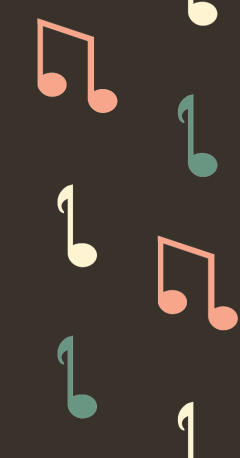
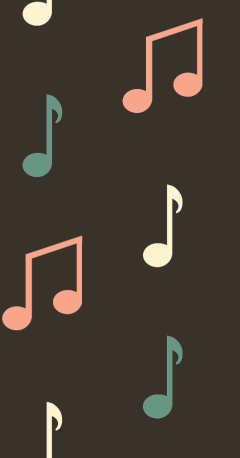
Abstract wallpaper fetching into a class

diff --git a/src/hall.ts b/src/hall.ts
@@ -1,6 +1,7 @@
 import * as THREE from 'three';
 import { SpotifyTrack } from './spotify';
 import TextGenerator from './text';
+import WallpaperManager from './wallpaper';
 
 const HALL_WIDTH = 5;
 const HALL_LENGTH = 16;
@@ -8,36 +9,28 @@ const HALL_HEIGHT = 4;
 const CENTER_APOTHEM = HALL_WIDTH / (2 * Math.sqrt(3));
 const HALL_WALL_LENGTH = HALL_LENGTH - CENTER_APOTHEM;
 const ALBUM_COVER_SIZE = 1.8;
-const WALLPAPER = {
-  // url: './images/wall1.png',
-  // width: 300,
-  // height: 325,
-  url: './images/wall2.png',
-  width: 240,
-  height: 458,
-  scale: 2,
-  // url: './images/wall3.png',
-  // width: 400,
-  // height: 400,
-  // scale: 1,
-};
 
 export default class Hall {
-  hallGroup: THREE.Group;
+  root: THREE.Group;
   leftWall: THREE.Mesh;
   rightWall: THREE.Mesh;
+  endWall: THREE.Mesh;
+  endGroup: THREE.Group;
   trackGroups: THREE.Group[];
   albumCoverMaterials: THREE.MeshPhongMaterial[];
   textGenerator: TextGenerator;
+  wallpaperMgr: WallpaperManager;
 
   constructor(
     parent: THREE.Object3D,
     rotation: number,
+    title: string,
     textGenerator: TextGenerator,
+    wallpaperMgr: WallpaperManager,
   ) {
-    this.hallGroup = new THREE.Group();
-    this.hallGroup.rotateY(rotation);
-    parent.add(this.hallGroup);
+    this.root = new THREE.Group();
+    this.root.rotateY(rotation);
+    parent.add(this.root);
 
     const tempMaterial = new THREE.MeshNormalMaterial();
 
@@ -45,7 +38,7 @@ export default class Hall {
     const floor = new THREE.Mesh(floorGeometry, tempMaterial);
     floor.position.setZ(HALL_LENGTH / 2);
     floor.rotateX(-Math.PI / 2);
-    this.hallGroup.add(floor);
+    this.root.add(floor);
 
     const wallGeometry = new THREE.PlaneGeometry(HALL_WALL_LENGTH, HALL_HEIGHT);
 
@@ -53,15 +46,52 @@ export default class Hall {
     this.leftWall.position.setX(HALL_WIDTH / 2);
     this.leftWall.position.setY(HALL_HEIGHT / 2);
     this.leftWall.position.setZ((HALL_LENGTH + CENTER_APOTHEM) / 2);
-    this.leftWall.rotateY(Math.PI / 2);
-    this.hallGroup.add(this.leftWall);
+    this.leftWall.rotateY(-Math.PI / 2);
+    this.root.add(this.leftWall);
 
     this.rightWall = new THREE.Mesh(wallGeometry, tempMaterial);
     this.rightWall.position.setX(-HALL_WIDTH / 2);
     this.rightWall.position.setY(HALL_HEIGHT / 2);
     this.rightWall.position.setZ((HALL_LENGTH + CENTER_APOTHEM) / 2);
-    this.rightWall.rotateY(-Math.PI / 2);
-    this.hallGroup.add(this.rightWall);
+    this.rightWall.rotateY(Math.PI / 2);
+    this.root.add(this.rightWall);
+
+    this.endGroup = new THREE.Group();
+    this.endGroup.position.setY(HALL_HEIGHT / 2);
+    this.endGroup.position.setZ(HALL_LENGTH);
+
+    const endWallGeometry = new THREE.PlaneGeometry(HALL_WIDTH, HALL_HEIGHT);
+    this.endWall = new THREE.Mesh(endWallGeometry, tempMaterial);
+    this.endWall.rotateY(Math.PI);
+    this.endGroup.add(this.endWall);
+
+    const endWallTop10Text = textGenerator.createText(
+      "Top 10",
+      "regular",
+      0.4,
+      "white",
+      "center",
+      HALL_WIDTH,
+    );
+    endWallTop10Text.rotateY(Math.PI);
+    endWallTop10Text.translateY(0.4);
+    endWallTop10Text.translateZ(0.01);
+    this.endGroup.add(endWallTop10Text);
+
+    const endWallTitleText = textGenerator.createText(
+      title,
+      "semibold",
+      0.4,
+      "normal",
+      "center",
+      HALL_WIDTH,
+    );
+    endWallTitleText.rotateY(Math.PI);
+    endWallTitleText.translateY(-0.2);
+    endWallTitleText.translateZ(0.01);
+    this.endGroup.add(endWallTitleText);
+
+    this.root.add(this.endGroup);
 
     this.trackGroups = Array.from(Array(10).keys()).map((idx) => {
       const trackGroup = new THREE.Group();
@@ -79,31 +109,24 @@ export default class Hall {
       return trackGroup;
     });
 
-    this.trackGroups.forEach((trackGroup) => this.hallGroup.add(trackGroup));
+    this.trackGroups.forEach((trackGroup) => this.root.add(trackGroup));
 
     this.albumCoverMaterials = [];
-
     this.textGenerator = textGenerator;
+    this.wallpaperMgr = wallpaperMgr;
   }
 
-  async loadAsync() {
-    const wallpaperTextureLoader = new THREE.TextureLoader();
-    const wallpaperTexture = await wallpaperTextureLoader.loadAsync(
-      WALLPAPER.url,
-    );
-    wallpaperTexture.wrapS = THREE.RepeatWrapping;
-    wallpaperTexture.wrapT = THREE.RepeatWrapping;
-    wallpaperTexture.repeat.set(
-      WALLPAPER.scale * (HALL_LENGTH - CENTER_APOTHEM),
-      WALLPAPER.scale * ((HALL_HEIGHT * WALLPAPER.width) / WALLPAPER.height),
+  async setWallpaper(wallpaperIdx: 0 | 1 | 2) {
+    const { sides, end } = await this.wallpaperMgr.getWallpaper(
+      wallpaperIdx,
+      HALL_WIDTH,
+      HALL_HEIGHT,
+      HALL_WALL_LENGTH,
     );
 
-    const wallpaperMaterial = new THREE.MeshPhongMaterial({
-      map: wallpaperTexture,
-      side: THREE.DoubleSide,
-    });
-    this.leftWall.material = wallpaperMaterial;
-    this.rightWall.material = wallpaperMaterial;
+    this.leftWall.material = sides;
+    this.rightWall.material = sides;
+    this.endWall.material = end;
   }
 
   async setTracks(tracks: SpotifyTrack[]) {
@@ -132,6 +155,7 @@ export default class Hall {
         `${idx + 1}`,
         'semibold',
         0.5,
+        "normal",
         'left',
         ALBUM_COVER_SIZE,
       );
@@ -143,6 +167,7 @@ export default class Hall {
         track.name,
         'semibold',
         0.1,
+        "white",
         'center',
         ALBUM_COVER_SIZE,
       );
@@ -154,6 +179,7 @@ export default class Hall {
         track.artists[0].name,
         'regular',
         0.1,
+        "white",
         'center',
         ALBUM_COVER_SIZE,
       );

diff --git a/src/wallpaper.ts b/src/wallpaper.ts
@@ -1,0 +1,84 @@
+import * as THREE from 'three';
+
+interface WallpaperData {
+  url: string;
+  width: number;
+  height: number;
+  scale: number;
+}
+
+interface Wallpaper {
+  sides: THREE.MeshPhongMaterial;
+  end: THREE.MeshPhongMaterial;
+}
+
+export default class WallpaperManager {
+  loader: THREE.TextureLoader;
+  wallpapers: Wallpaper[];
+  wallpaperData: WallpaperData[];
+
+  constructor() {
+    this.loader = new THREE.TextureLoader();
+    this.wallpapers = [null, null, null];
+    this.wallpaperData = [
+      {
+        url: './images/wall1.png',
+        width: 300,
+        height: 325,
+        scale: 2,
+      },
+      {
+        url: './images/wall2.png',
+        width: 240,
+        height: 458,
+        scale: 2,
+      },
+      {
+        url: './images/wall3.png',
+        width: 400,
+        height: 400,
+        scale: 1,
+      },
+    ];
+  }
+
+  async getWallpaper(
+    idx: 0 | 1 | 2,
+    hallWidth: number,
+    hallHeight: number,
+    hallDepth: number,
+  ): Promise<Wallpaper> {
+    const { url, width, height, scale } = this.wallpaperData[idx];
+
+    if (this.wallpapers[idx] === null) {
+      const texture = await this.loader.loadAsync(url);
+      texture.wrapS = THREE.RepeatWrapping;
+      texture.wrapT = THREE.RepeatWrapping;
+
+      const textureSides = texture.clone();
+      textureSides.needsUpdate = true;
+      textureSides.repeat.set(
+        scale * hallDepth,
+        scale * ((hallHeight * width) / height),
+      );
+      const sides = new THREE.MeshPhongMaterial({
+        map: textureSides,
+        side: THREE.DoubleSide,
+      });
+
+      const textureEnd = texture;
+      textureEnd.repeat.set(
+        scale * hallWidth,
+        scale * ((hallHeight * width) / height),
+      );
+      const end = new THREE.MeshPhongMaterial({
+        map: textureEnd,
+        side: THREE.DoubleSide,
+      });
+
+      this.wallpapers[idx] = { sides, end };
+    }
+
+    return this.wallpapers[idx];
+  }
+}

diff --git a/src/main.ts b/src/main.ts
@@ -6,10 +6,12 @@ import Hall from './hall';
 import MusicNoteParticleSystem from './particles';
 import loadSpotifyData from './spotify';
 import TextGenerator from './text';
+import WallpaperManager from './wallpaper';
 
 const audioPlayer = new AudioPlayer();
 const halls: Hall[] = [];
 const textGenerator = new TextGenerator();
+const wallpaperMgr = new WallpaperManager();
 
 const displayTableOfSongs = (title: string, songs: any[]) =>
   `<h3>${title}</h3><ul>` +
@@ -98,13 +100,13 @@ const createScene = async (canvas: HTMLCanvasElement) => {
   // particleSystem = new MusicNoteParticleSystem(scene, 9);
   // await particleSystem.loadAsync();
 
-  halls.push(new Hall(scene, (0 * Math.PI) / 3, textGenerator));
-  halls.push(new Hall(scene, (2 * Math.PI) / 3, textGenerator));
-  halls.push(new Hall(scene, (4 * Math.PI) / 3, textGenerator));
+  halls.push(new Hall(scene, (0 * Math.PI) / 3, "México", textGenerator, wallpaperMgr));
+  halls.push(new Hall(scene, (2 * Math.PI) / 3, "Global", textGenerator, wallpaperMgr));
+  halls.push(new Hall(scene, (4 * Math.PI) / 3, "Personal", textGenerator, wallpaperMgr));
 
-  await halls[0].loadAsync();
-  await halls[1].loadAsync();
-  await halls[2].loadAsync();
+  await halls[0].setWallpaper(1);
+  await halls[1].setWallpaper(1);
+  await halls[2].setWallpaper(1);
 };
 
 // main
